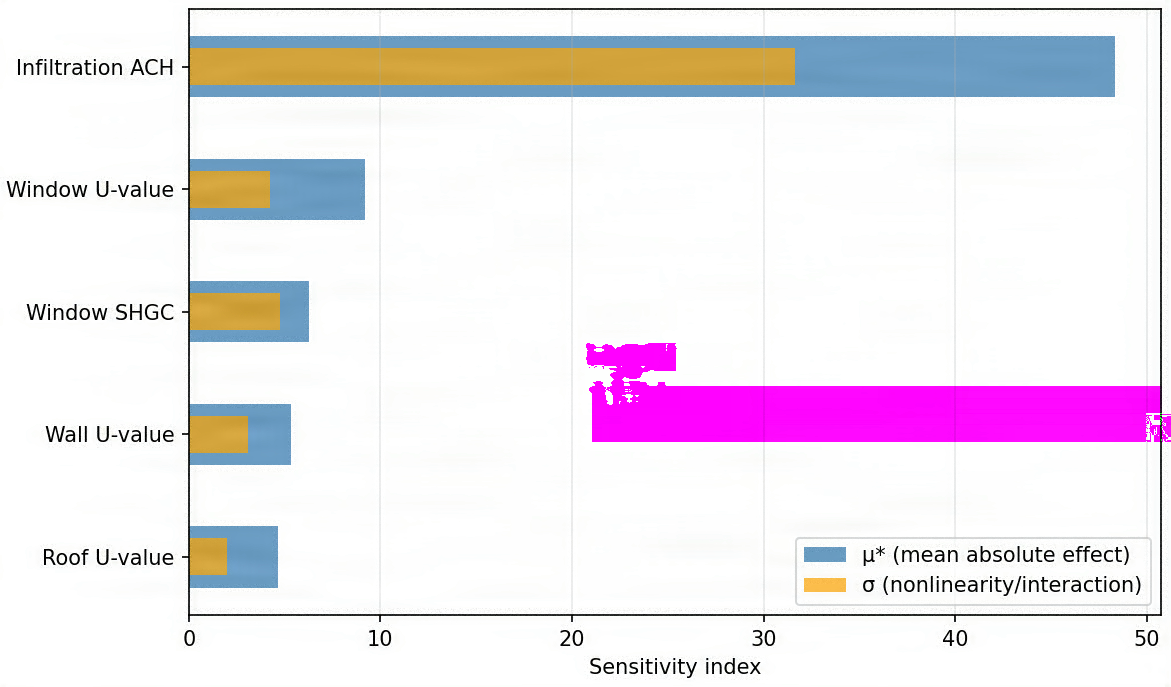
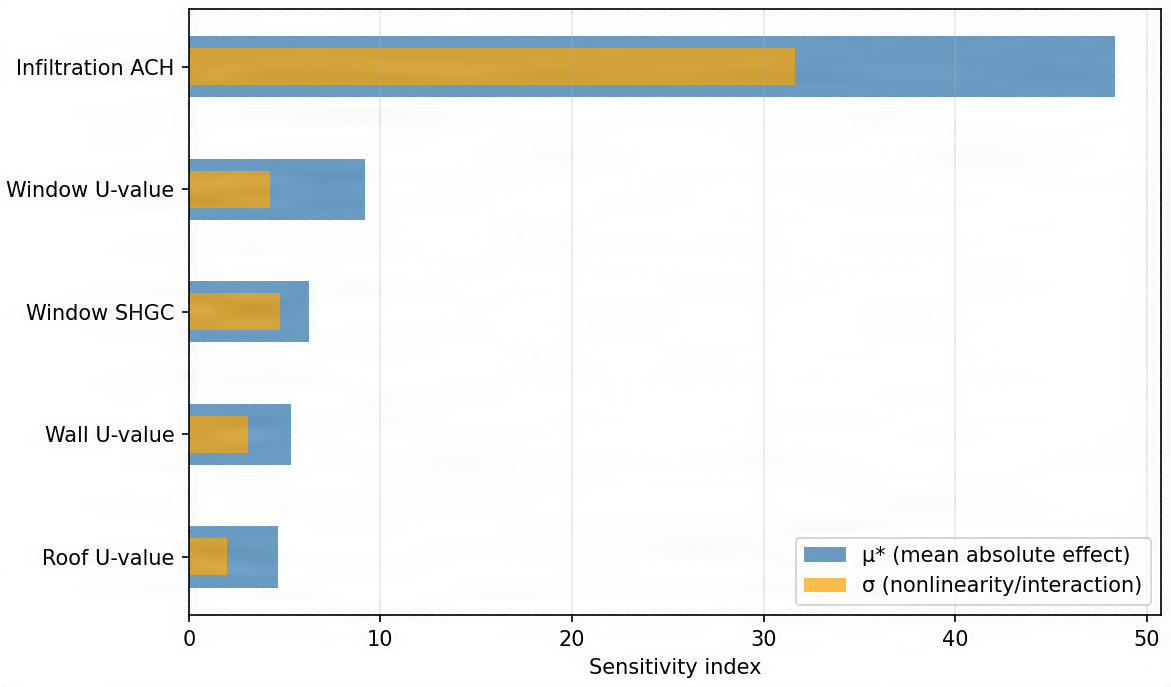
검증 페이지 문구 개선(조사 13), 변조 표본을 실제 픽셀 하나 변경으로 수정

Changed region(s): [[0.4919, 0.4891, 1.0, 0.6419]]

diff --git a/docs/assets/js/verify.js b/docs/assets/js/verify.js
@@ -83,25 +83,27 @@ async function ledgerSection(hash, blob) {
       }
     }
   }
-  let body;
+  let body, detail;
   if (exact) {
-    body = `<p class="state ok"><span class="dot"></span>원장에 같은 파일이 있습니다 (SHA-256 일치, 기록 #${exact.index})</p>`;
+    body = `<p class="state ok"><span class="dot"></span>연구실 원장에 같은 파일이 기록되어 있습니다</p>`;
+    detail = `<dt>근거</dt><dd>SHA-256 일치, 기록 #${exact.index}</dd>`;
   } else if (near && near.d <= PHASH_T) {
-    body = `<p class="state warn"><span class="dot"></span>파일은 다르지만 내용이 같은 그림을 원장에서 찾았습니다 (지각 해시 거리 ${near.d} ≤ ${PHASH_T})</p>
-      <p>원래 발행본: <a href="${esc(near.e.record.file)}">${esc(near.e.record.caption)}</a><br>
-      <span class="muted small">원본의 증명서 ${esc(near.e.record.c2pa_manifest)}</span></p>
-      <p class="muted small">이 파일 자체가 인증된 것은 아닙니다. 내용이 같아 보이는 원본의 증명서를 찾아 온 것이라 신뢰 수준이 낮습니다(C2PA 2.5 규격 16.4.1.10).</p>`;
+    body = `<p class="state warn"><span class="dot"></span>이 파일 자체는 인증되지 않았습니다. 다만 발행된 그림과 닮아 보여, 그 원본의 증명서를 참고로 보여 드립니다</p>
+      <p>닮아 보이는 원본: <a href="${esc(near.e.record.file)}">${esc(near.e.record.caption)}</a></p>
+      <p class="muted small">닮음은 기계가 판단한 것이라 틀릴 수 있습니다. 규격은 이렇게 찾아 온 증명서를 낮은 신뢰로 따로 표시하라고 합니다(C2PA 2.5 규격 16.4.1.10).</p>`;
+    detail = `<dt>근거</dt><dd>지각 해시 거리 ${near.d} (문턱 ${PHASH_T} 이하면 닮음으로 봄)</dd><dt>원본의 증명서</dt><dd class="mono">${esc(near.e.record.c2pa_manifest)}</dd>`;
   } else if (tile && tile.d <= TILE_T) {
     const main = entries.find((e) => e.record.sha256 === tile.e.record.of_sha256);
-    body = `<p class="state warn"><span class="dot"></span>그림 전체와는 다르지만 발행된 그림의 일부(조각)와 일치합니다 (거리 ${tile.d} ≤ ${TILE_T}) — 잘라서 쓴 것으로 보입니다</p>
-      <p>원래 발행본: <a href="${esc(tile.e.record.file)}">${esc(main ? main.record.caption : tile.e.record.file)}</a><br>
-      <span class="muted small">원본의 증명서 ${esc(main ? main.record.c2pa_manifest : "-")}</span></p>
-      <p class="muted small">이 파일 자체가 인증된 것은 아닙니다. 일부가 같아 보이는 원본의 증명서를 찾아 온 것이라 신뢰 수준이 낮습니다.</p>`;
+    body = `<p class="state warn"><span class="dot"></span>이 파일 자체는 인증되지 않았습니다. 다만 발행된 그림의 일부와 닮아 보여(잘라 쓴 것으로 보임), 그 원본의 증명서를 참고로 보여 드립니다</p>
+      <p>닮아 보이는 원본: <a href="${esc(tile.e.record.file)}">${esc(main ? main.record.caption : tile.e.record.file)}</a></p>
+      <p class="muted small">닮음은 기계가 판단한 것이라 틀릴 수 있습니다. 찾아 온 증명서는 낮은 신뢰입니다.</p>`;
+    detail = `<dt>근거</dt><dd>조각 해시 거리 ${tile.d} (문턱 ${TILE_T} 이하면 닮음으로 봄)</dd><dt>원본의 증명서</dt><dd class="mono">${esc(main ? main.record.c2pa_manifest : "-")}</dd>`;
   } else {
-    body = `<p class="state bad"><span class="dot"></span>원장에서 찾지 못했습니다</p>
-      <p class="muted small">가장 가까운 기록과의 지각 해시 거리 ${near ? near.d : "-"} (문턱 ${PHASH_T})</p>`;
+    body = `<p class="state none"><span class="dot"></span>이 연구실 원장에는 없는 그림입니다</p>
+      <p class="muted small">다른 곳에서 만든 그림일 수 있으며, 가짜라는 뜻은 아닙니다.</p>`;
+    detail = `<dt>근거</dt><dd>가장 가까운 기록과의 지각 해시 거리 ${near ? near.d : "-"} (문턱 ${PHASH_T})</dd>`;
   }
-  return `<h2 class="sub">원장 조회</h2>${body}<dl><dt>지각 해시</dt><dd class="mono">${ph}</dd></dl>`;
+  return `<h2 class="sub">원장 조회</h2>${body}<details><summary>자세히</summary><dl>${detail}<dt>이 파일의 지각 해시</dt><dd class="mono">${ph}</dd></dl></details>`;
 }
 
 function context() {
@@ -114,11 +116,12 @@ function verdict(store) {
   const codes = (store.validation_status || []).map((s) => s.code);
   const state = store.validation_state;
   if (state === "Invalid" || codes.some((c) => c.includes("mismatch") || c.includes("invalid")))
-    return ["bad", "서명 검증 실패 — 서명 뒤에 파일이 바뀌었거나 증명서가 손상됨"];
-  if (state === "Trusted") return ["ok", "신뢰된 서명자 — 신뢰 목록에 있는 인증서로 서명됨"];
+    return ["bad", "서명 뒤에 파일이 바뀌었습니다. 증명서는 바뀌기 전의 파일을 보증한 것이라 지금 이 파일에는 적용되지 않습니다. 어디가 바뀌었는지는 이 검증기로는 알 수 없습니다"];
+  if (state === "Trusted")
+    return ["ok", `서명자 확인됨. 서명한 뒤 파일이 바뀌지 않았고, 서명자가 이 검증기의 신뢰 목록에 있습니다${trustLab.checked ? "(연구실 자체 목록 — C2PA 공식 목록 아님)" : ""}. 내용이 사실이라는 뜻은 아닙니다`];
   if (codes.includes("signingCredential.untrusted"))
-    return ["warn", "서명은 유효하지만 신뢰 목록에 없는 서명자"];
-  return ["ok", `서명 유효 (${esc(state)})`];
+    return ["warn", "서명은 손상 없이 유효합니다. 다만 서명한 사람(기관)이 이 검증기가 아는 명단에 없어 신원은 확인하지 못했습니다. 명단에 없다는 것이 가짜라는 뜻은 아닙니다"];
+  return ["ok", "서명은 손상 없이 유효합니다. 내용이 사실이라는 뜻은 아닙니다"];
 }
 
 async function show(blob, name) {
@@ -135,8 +138,8 @@ async function show(blob, name) {
   }
   if (!reader) {
     result.innerHTML = `<img class="thumb" src="${url}" alt="">
-      <p class="state warn"><span class="dot"></span>C2PA 증명서가 없습니다</p>
-      <p>증명서가 없다는 것은 "가짜"라는 뜻이 아니라 출처를 이 파일만으로는 알 수 없다는 뜻입니다. 다시 저장하거나 SNS를 거치면 증명서가 지워지는 경우가 많습니다.</p>
+      <p class="state none"><span class="dot"></span>출처 정보가 없습니다 (C2PA 증명서 없음)</p>
+      <p>가짜라는 뜻이 아니라, 이 파일만으로는 누가 만들었는지 알 수 없다는 뜻입니다. 다시 저장하거나 메신저·SNS를 거치면 증명서가 지워지는 경우가 많습니다.</p>
       <dl><dt>파일</dt><dd>${esc(name)}</dd><dt>SHA-256</dt><dd class="mono">${hash}</dd></dl>`;
     result.insertAdjacentHTML("beforeend", await ledgerSection(hash, blob));
     return;
@@ -146,21 +149,26 @@ async function show(blob, name) {
   const m = store.manifests[store.active_manifest];
   const sig = m.signature_info || {};
   const actions = (m.assertions || []).find((a) => a.label.startsWith("c2pa.actions"));
-  const acts = actions ? actions.data.actions.map((a) => a.action.replace("c2pa.", "")).join(" → ") : "";
+  const ACT = { created: "만듦", opened: "엶", edited: "편집", published: "발행", converted: "형식 변환", resized: "크기 변경", cropped: "자름" };
+  const acts = actions ? actions.data.actions.map((a) => { const k = a.action.replace("c2pa.", ""); return ACT[k] || k; }).join(" → ") : "";
   const [cls, text] = verdict(store);
   const codes = (store.validation_status || []).map((s) => `<li class="mono">${esc(s.code)}</li>`).join("");
   result.innerHTML = `<img class="thumb" src="${url}" alt="">
     <p class="state ${cls}"><span class="dot"></span>${text}</p>
+    ${cls === "bad" ? `<p class="muted small">아래 정보는 유효하지 않은 증명서에서 읽은 것이므로 서명자의 것으로 볼 수 없습니다(C2PA 규격 15.3).</p>` : ""}
     <dl>
-      <dt>제목</dt><dd>${esc(m.title)}</dd>
       <dt>서명자</dt><dd>${esc(sig.common_name)}<br><span class="muted">${esc(sig.issuer)}</span></dd>
       <dt>서명 시각</dt><dd class="mono">${esc(sig.time)}</dd>
-      <dt>기록된 행동</dt><dd>${esc(acts)}</dd>
-      <dt>도구</dt><dd>${esc((m.claim_generator_info || []).map((g) => `${g.name} ${g.version || ""}`).join(", "))}</dd>
+      <dt>서명자가 적은 작업 기록</dt><dd>${esc(acts)}</dd>
+    </dl>
+    <details><summary>자세히</summary><dl>
+      <dt>제목</dt><dd>${esc(m.title)}</dd>
+      <dt>서명 도구</dt><dd>${esc((m.claim_generator_info || []).map((g) => `${g.name} ${g.version || ""}`).join(", "))}</dd>
+      <dt>검증 상태</dt><dd class="mono">${esc(store.validation_state)}</dd>
       <dt>SHA-256</dt><dd class="mono">${hash}</dd>
       <dt>검증 코드</dt><dd><ul class="plain">${codes || "<li>없음</li>"}</ul></dd>
-    </dl>
-    <p class="muted small">서명은 누가 서명했는지와 서명 뒤 바뀌지 않았다는 것만 보증합니다. 그림 내용이 사실이라는 보증은 아닙니다.</p>`;
+    </dl></details>
+    <p class="muted small">서명은 누가 서명했는지와 서명 뒤 바뀌지 않았다는 것만 보증합니다. 그림 내용이 사실이라는 보증은 아닙니다. 작업 기록은 서명자가 적은 것이고 검증기가 직접 본 것이 아닙니다.</p>`;
   result.insertAdjacentHTML("beforeend", await ledgerSection(hash, blob));
 }
 

diff --git a/docs/verify.html b/docs/verify.html
@@ -21,9 +21,9 @@
   <div class="panel">
     <label class="drop" for="file"><input id="file" type="file" accept="image/*"><span>이미지 파일을 고르거나 끌어다 놓기</span></label>
     <p class="muted small">또는 이 사이트의 그림으로 해 보기</p>
-    <div class="row"><select id="sample"><option value="assets/signed/buildings2026-01.png">CVRMSE 분해: 변동계수 요인과 비정형 요인</option><option value="assets/signed/buildings2026-02.png">건물 유형별 시간대 오차 패턴</option><option value="assets/signed/buildings2026-03.png">계층적 진단 프레임워크</option><option value="assets/signed/kiaebs2026-04.png">연구 프레임워크</option><option value="assets/signed/kiaebs2026-05.png">외피 변수별 민감도 지수</option><option value="assets/signed/energy2024-06.png">수요 예측 과정</option><option value="assets/signed/energy2024-07.png">대상 건물 평면</option><option value="assets/signed/enbuild2024-08.png">BES 모델 구성과 보정 절차</option><option value="assets/signed/enbuild2024-09.png">단위 체적 조합 모델</option><option value="assets/samples/kiaebs2026-05-resaved.png">[변형] 다시 저장한 그림 — 증명서가 지워짐</option><option value="assets/samples/kiaebs2026-05-tampered.png">[변형] 픽셀 1바이트를 바꾼 그림 — 증명서는 남음</option><option value="assets/samples/kiaebs2026-05-cropped.png">[변형] 일부만 잘라 쓴 그림 — 엄격한 기준에서는 못 찾음</option></select><button id="useSample" class="btn">불러오기</button></div>
+    <div class="row"><select id="sample"><option value="assets/signed/buildings2026-01.png">CVRMSE 분해: 변동계수 요인과 비정형 요인</option><option value="assets/signed/buildings2026-02.png">건물 유형별 시간대 오차 패턴</option><option value="assets/signed/buildings2026-03.png">계층적 진단 프레임워크</option><option value="assets/signed/kiaebs2026-04.png">연구 프레임워크</option><option value="assets/signed/kiaebs2026-05.png">외피 변수별 민감도 지수</option><option value="assets/signed/energy2024-06.png">수요 예측 과정</option><option value="assets/signed/energy2024-07.png">대상 건물 평면</option><option value="assets/signed/enbuild2024-08.png">BES 모델 구성과 보정 절차</option><option value="assets/signed/enbuild2024-09.png">단위 체적 조합 모델</option><option value="assets/samples/kiaebs2026-05-resaved.png">[변형] 다시 저장한 그림 — 증명서가 지워짐</option><option value="assets/samples/kiaebs2026-05-tampered.png">[변형] 픽셀 하나를 바꾼 그림 — 증명서는 남지만 깨짐</option><option value="assets/samples/kiaebs2026-05-cropped.png">[변형] 일부만 잘라 쓴 그림 — 엄격한 기준에서는 못 찾음</option></select><button id="useSample" class="btn">불러오기</button></div>
     <label class="check"><input id="trustLab" type="checkbox"> 연구실 루트 인증서를 신뢰 목록에 넣기</label>
-    <p class="muted small">이 칸을 켜면 같은 파일이 '신뢰 목록에 없는 서명자'에서 '신뢰된 서명자'로 바뀝니다. 신뢰 목록에 오른다는 것이 무엇인지 보여 주는 실험입니다.</p>
+    <p class="muted small">이 칸을 켜면 같은 파일이 '신원 확인 못 함'에서 '서명자 확인됨'으로 바뀝니다. 검증기 설정을 바꾼 것일 뿐 C2PA 공식 신뢰 목록에 오른 것은 아닙니다. 신뢰 목록이 무엇을 바꾸는지 보여 주는 실험입니다.</p>
   </div>
   <div class="panel result" id="result"><p class="muted">아직 고른 파일이 없습니다.</p></div>
 </section>

diff --git a/content/provenance.html b/content/provenance.html
@@ -19,7 +19,7 @@
 
 <section>
   <h2>이 사이트의 서명</h2>
-  <p>그림은 발행할 때 연구실 자체 인증서로 서명했습니다. 인증서는 <span class="mono">루트 → 발급 기관 → 서명용</span> 세 단계로 만들었습니다. 이 루트는 C2PA 신뢰 목록에 없기 때문에, 검증기는 "서명은 유효하지만 신뢰 목록에 없는 서명자"라고 답합니다. <a href="verify.html">검증하기</a>에서 루트를 신뢰 목록에 넣고 빼며 차이를 볼 수 있습니다.</p>
+  <p>그림은 발행할 때 연구실 자체 인증서로 서명했습니다. 인증서는 <span class="mono">루트 → 발급 기관 → 서명용</span> 세 단계로 만들었습니다. 이 루트는 C2PA 신뢰 목록에 없기 때문에, 검증기는 "서명은 손상 없이 유효하지만 서명자의 신원은 확인하지 못했다"고 답합니다. <a href="verify.html">검증하기</a>에서 루트를 신뢰 목록에 넣고 빼며 차이를 볼 수 있습니다.</p>
   <p>서명은 그림이 서명 뒤에 바뀌지 않았다는 것과 누가 서명했는지만 보증합니다. 그림 속 내용이 사실이라는 보증은 아닙니다.</p>
 </section>
 
@@ -28,7 +28,7 @@
   <table class="data">
     <thead><tr><th>층</th><th>무엇을 해 봤나</th><th>알게 된 것</th></tr></thead>
     <tbody>
-      <tr><td>C2PA</td><td>그림 9장 서명, 브라우저 검증, 다시 저장·1바이트 변경</td><td>다시 저장하면 증명서가 통째로 사라진다. 1바이트만 바뀌어도 "변조됨". 신뢰 여부는 파일이 아니라 검증하는 쪽이 어떤 루트를 믿느냐로 정해진다</td></tr>
+      <tr><td>C2PA</td><td>그림 9장 서명, 브라우저 검증, 다시 저장·픽셀 하나 변경</td><td>다시 저장하면 증명서가 통째로 사라진다. 픽셀 하나만 바뀌어도 "변조됨". 신뢰 여부는 파일이 아니라 검증하는 쪽이 어떤 루트를 믿느냐로 정해진다</td></tr>
       <tr><td>핑거프린트</td><td>지각 해시 4종, 이미지 76장, 공개 벤치마크(WAVES) 공격 8종×5단계</td><td>JPEG 품질 10, 잡음, 흐림에도 같은 그림을 찾는다. 그러나 9° 회전이나 10% 크롭부터는 거의 못 찾는다. 흰 배경 그림은 회전·지우기로 생기는 검은 영역에 사진보다 더 약하다. 발행할 때 그림의 조각 125개를 함께 등록하면 잘라 쓴 그림을 더 찾지만, 오탐을 엄격하게 따지면 논문 그림 크롭은 13~24%에 그친다</td></tr>
       <tr><td>원장·블록체인</td><td>해시체인 원장 공개, 원장 끝을 OpenTimestamps로 비트코인에 고정</td><td>증명서가 지워진 그림도 지각 해시로 원장에서 원래 발행본과 원래 증명서를 찾는다(<a href="verify.html">검증하기</a>에서 "다시 저장한 그림"으로 확인). 워터마크에는 짧은 식별자만 들어가므로 이런 조회처가 반드시 필요하다</td></tr>
       <tr><td>워터마크</td><td>TrustMark, DWT-DCT, DWT-DCT-SVD, 블록 DCT(연구 중인 비디오 워터마크의 이미지 이식), 34장 × 같은 공격</td><td>블록 DCT는 압축·잡음·밝기에 거의 완벽하고, TrustMark는 크롭에 강해 서로 보완적이다. 어떤 방식도 9° 회전을 못 버틴다. DWT-DCT는 흰 배경 그림에 아예 들어가지 않고, TrustMark도 흰 배경 그림은 밝기만 올려도 신호가 잘린다. 넣을 수 있는 정보는 61비트(영문 8글자)뿐이다. AI 공격에서도 정반대로 보완한다: 디노이저는 TrustMark를, 생성 모델 재생성(SD-VAE)은 블록 DCT를 지운다</td></tr>

diff --git a/docs/provenance.html b/docs/provenance.html
@@ -35,7 +35,7 @@
 
 <section>
   <h2>이 사이트의 서명</h2>
-  <p>그림은 발행할 때 연구실 자체 인증서로 서명했습니다. 인증서는 <span class="mono">루트 → 발급 기관 → 서명용</span> 세 단계로 만들었습니다. 이 루트는 C2PA 신뢰 목록에 없기 때문에, 검증기는 "서명은 유효하지만 신뢰 목록에 없는 서명자"라고 답합니다. <a href="verify.html">검증하기</a>에서 루트를 신뢰 목록에 넣고 빼며 차이를 볼 수 있습니다.</p>
+  <p>그림은 발행할 때 연구실 자체 인증서로 서명했습니다. 인증서는 <span class="mono">루트 → 발급 기관 → 서명용</span> 세 단계로 만들었습니다. 이 루트는 C2PA 신뢰 목록에 없기 때문에, 검증기는 "서명은 손상 없이 유효하지만 서명자의 신원은 확인하지 못했다"고 답합니다. <a href="verify.html">검증하기</a>에서 루트를 신뢰 목록에 넣고 빼며 차이를 볼 수 있습니다.</p>
   <p>서명은 그림이 서명 뒤에 바뀌지 않았다는 것과 누가 서명했는지만 보증합니다. 그림 속 내용이 사실이라는 보증은 아닙니다.</p>
 </section>
 
@@ -44,7 +44,7 @@
   <table class="data">
     <thead><tr><th>층</th><th>무엇을 해 봤나</th><th>알게 된 것</th></tr></thead>
     <tbody>
-      <tr><td>C2PA</td><td>그림 9장 서명, 브라우저 검증, 다시 저장·1바이트 변경</td><td>다시 저장하면 증명서가 통째로 사라진다. 1바이트만 바뀌어도 "변조됨". 신뢰 여부는 파일이 아니라 검증하는 쪽이 어떤 루트를 믿느냐로 정해진다</td></tr>
+      <tr><td>C2PA</td><td>그림 9장 서명, 브라우저 검증, 다시 저장·픽셀 하나 변경</td><td>다시 저장하면 증명서가 통째로 사라진다. 픽셀 하나만 바뀌어도 "변조됨". 신뢰 여부는 파일이 아니라 검증하는 쪽이 어떤 루트를 믿느냐로 정해진다</td></tr>
       <tr><td>핑거프린트</td><td>지각 해시 4종, 이미지 76장, 공개 벤치마크(WAVES) 공격 8종×5단계</td><td>JPEG 품질 10, 잡음, 흐림에도 같은 그림을 찾는다. 그러나 9° 회전이나 10% 크롭부터는 거의 못 찾는다. 흰 배경 그림은 회전·지우기로 생기는 검은 영역에 사진보다 더 약하다. 발행할 때 그림의 조각 125개를 함께 등록하면 잘라 쓴 그림을 더 찾지만, 오탐을 엄격하게 따지면 논문 그림 크롭은 13~24%에 그친다</td></tr>
       <tr><td>원장·블록체인</td><td>해시체인 원장 공개, 원장 끝을 OpenTimestamps로 비트코인에 고정</td><td>증명서가 지워진 그림도 지각 해시로 원장에서 원래 발행본과 원래 증명서를 찾는다(<a href="verify.html">검증하기</a>에서 "다시 저장한 그림"으로 확인). 워터마크에는 짧은 식별자만 들어가므로 이런 조회처가 반드시 필요하다</td></tr>
       <tr><td>워터마크</td><td>TrustMark, DWT-DCT, DWT-DCT-SVD, 블록 DCT(연구 중인 비디오 워터마크의 이미지 이식), 34장 × 같은 공격</td><td>블록 DCT는 압축·잡음·밝기에 거의 완벽하고, TrustMark는 크롭에 강해 서로 보완적이다. 어떤 방식도 9° 회전을 못 버틴다. DWT-DCT는 흰 배경 그림에 아예 들어가지 않고, TrustMark도 흰 배경 그림은 밝기만 올려도 신호가 잘린다. 넣을 수 있는 정보는 61비트(영문 8글자)뿐이다. AI 공격에서도 정반대로 보완한다: 디노이저는 TrustMark를, 생성 모델 재생성(SD-VAE)은 블록 DCT를 지운다</td></tr>

diff --git a/docs/assets/css/site.css b/docs/assets/css/site.css
@@ -129,6 +129,9 @@ select { flex: 1; min-width: 0; font: inherit; font-size: 14px; padding: 6px 8px
 .ok .dot { background: var(--accent); }
 .warn .dot { background: #b7791f; }
 .bad .dot { background: #c0392b; }
+.none .dot { background: #9aa0a6; }
+#result details { margin: 8px 0 16px; }
+#result summary { cursor: pointer; color: var(--text-3); font-size: .9em; }
 .thumb { max-height: 180px; width: auto; border-radius: 6px; margin-bottom: 16px; }
 
 footer { max-width: 1120px; margin: 0 auto; padding: 24px; border-top: 1px solid var(--line); color: var(--text-3); font-size: 14px; }

diff --git a/tools/make_samples.py b/tools/make_samples.py
@@ -1,13 +1,14 @@
 """검증 페이지 시연용 변형 예시를 만든다.
 
 - resaved: 이미지 라이브러리로 다시 저장 (일반 편집기·SNS처럼 모르는 메타데이터를 버린다)
-- tampered: PNG 픽셀 데이터(IDAT) 한 바이트만 바꾸고 CRC를 다시 맞춘다 (증명서는 그대로 남는다)
+- tampered: 가운데 픽셀 하나의 값을 1 바꾸어 IDAT만 새로 쓰고 CRC를 맞춘다 (증명서는 그대로 남는다)
 """
 import struct
 import sys
 import zlib
 from pathlib import Path
 
+import numpy as np
 from PIL import Image
 
 
@@ -23,9 +24,21 @@ def tamper_png(src, dst):
         chunks.append((data[pos + 4:pos + 8], data[pos:pos + 12 + length], data[pos + 8:pos + 8 + length]))
         pos += 12 + length
     # 픽셀 데이터는 IDAT 여러 개로 나뉠 수 있다 → 모두 이어 붙여 풀고, 한 바이트를 바꾼 뒤 IDAT 하나로 다시 넣는다
-    raw = bytearray(zlib.decompress(b"".join(body for t, _, body in chunks if t == b"IDAT")))
-    raw[len(raw) // 2] ^= 0x01
-    body = zlib.compress(bytes(raw))
+    # 압축 해제한 바이트를 그대로 바꾸면 PNG 행 필터(Sub·Up·Paeth) 때문에 그 뒤 픽셀이 줄줄이 바뀐다
+    # (처음 판은 이 때문에 지각 해시 거리가 16까지 벌어져 '1바이트 변조'가 아니었음, 11-13 발견).
+    # 그래서 픽셀을 풀어 가운데 한 픽셀의 한 채널만 1 바꾸고, 모든 행을 필터 0(그대로)으로 다시 묶는다.
+    ihdr = next(body for t, _, body in chunks if t == b"IHDR")
+    assert ihdr[8] == 8, "8비트 PNG만 지원"
+    im = Image.open(src)
+    arr = np.array(im)
+    y, x = arr.shape[0] // 2, arr.shape[1] // 2
+    if arr.ndim == 2:
+        arr[y, x] ^= 1
+    else:
+        arr[y, x, 0] ^= 1
+    rows = arr.reshape(arr.shape[0], -1)
+    raw = b"".join(bytes(1) + r.tobytes() for r in rows)  # 행마다 필터 종류 0(None)
+    body = zlib.compress(raw)
     idat = struct.pack(">I", len(body)) + b"IDAT" + body + struct.pack(">I", zlib.crc32(b"IDAT" + body) & 0xFFFFFFFF)
     out, done = data[:8], False
     for t, whole, _ in chunks:

diff --git a/tools/build_site.py b/tools/build_site.py
@@ -357,7 +357,7 @@ def build_verify(figs):
     opts = "".join(f'<option value="{f["file"]}">{esc(f["caption"])}</option>' for f in figs)
     opts += (
         '<option value="assets/samples/kiaebs2026-05-resaved.png">[변형] 다시 저장한 그림 — 증명서가 지워짐</option>'
-        '<option value="assets/samples/kiaebs2026-05-tampered.png">[변형] 픽셀 1바이트를 바꾼 그림 — 증명서는 남음</option><option value="assets/samples/kiaebs2026-05-cropped.png">[변형] 일부만 잘라 쓴 그림 — 엄격한 기준에서는 못 찾음</option>'
+        '<option value="assets/samples/kiaebs2026-05-tampered.png">[변형] 픽셀 하나를 바꾼 그림 — 증명서는 남지만 깨짐</option><option value="assets/samples/kiaebs2026-05-cropped.png">[변형] 일부만 잘라 쓴 그림 — 엄격한 기준에서는 못 찾음</option>'
     )
     body = f"""
 <section class="head"><h1>검증하기</h1>
@@ -368,7 +368,7 @@ def build_verify(figs):
     <p class="muted small">또는 이 사이트의 그림으로 해 보기</p>
     <div class="row"><select id="sample">{opts}</select><button id="useSample" class="btn">불러오기</button></div>
     <label class="check"><input id="trustLab" type="checkbox"> 연구실 루트 인증서를 신뢰 목록에 넣기</label>
-    <p class="muted small">이 칸을 켜면 같은 파일이 '신뢰 목록에 없는 서명자'에서 '신뢰된 서명자'로 바뀝니다. 신뢰 목록에 오른다는 것이 무엇인지 보여 주는 실험입니다.</p>
+    <p class="muted small">이 칸을 켜면 같은 파일이 '신원 확인 못 함'에서 '서명자 확인됨'으로 바뀝니다. 검증기 설정을 바꾼 것일 뿐 C2PA 공식 신뢰 목록에 오른 것은 아닙니다. 신뢰 목록이 무엇을 바꾸는지 보여 주는 실험입니다.</p>
   </div>
   <div class="panel result" id="result"><p class="muted">아직 고른 파일이 없습니다.</p></div>
 </section>

diff --git a/notes/발표요약_1117.md b/notes/발표요약_1117.md
@@ -35,7 +35,7 @@
 | C2PA의 빈틈 | 메우는 것 | 이번에 확인한 것 |
 |---|---|---|
 | 다시 저장하면 증명서가 사라짐 | 워터마크·핑거프린트 + 원장 | 증명서 없는 재저장본을 지각 해시로 원장에서 찾아 **원래 증명서 ID로 복귀** |
-| 1바이트만 바뀌어도 "변조" | 지각 해시(느슨한 결속) | 엄격한 결속은 "서명 그대로인가", 느슨한 결속은 "원래 기록이 어디 있나"에 답함 |
+| 픽셀 하나만 바뀌어도 "변조" | 지각 해시(느슨한 결속) | 엄격한 결속은 "서명 그대로인가", 느슨한 결속은 "원래 기록이 어디 있나"에 답함 |
 | 증명서를 둘 곳이 파일뿐 | 원장·블록체인 | 워터마크엔 8글자 ID만 들어감 → 조회처가 반드시 필요 (CAI "Durable Content Credentials"와 같은 구조) |
 | 서명 전·기록 없는 파일엔 무력 | 포렌식 | 수동 포렌식은 JPEG 사진 전제, 그림엔 착시. 능동(받는 사람별 ID)은 유출자 추적에 동작 |
 
